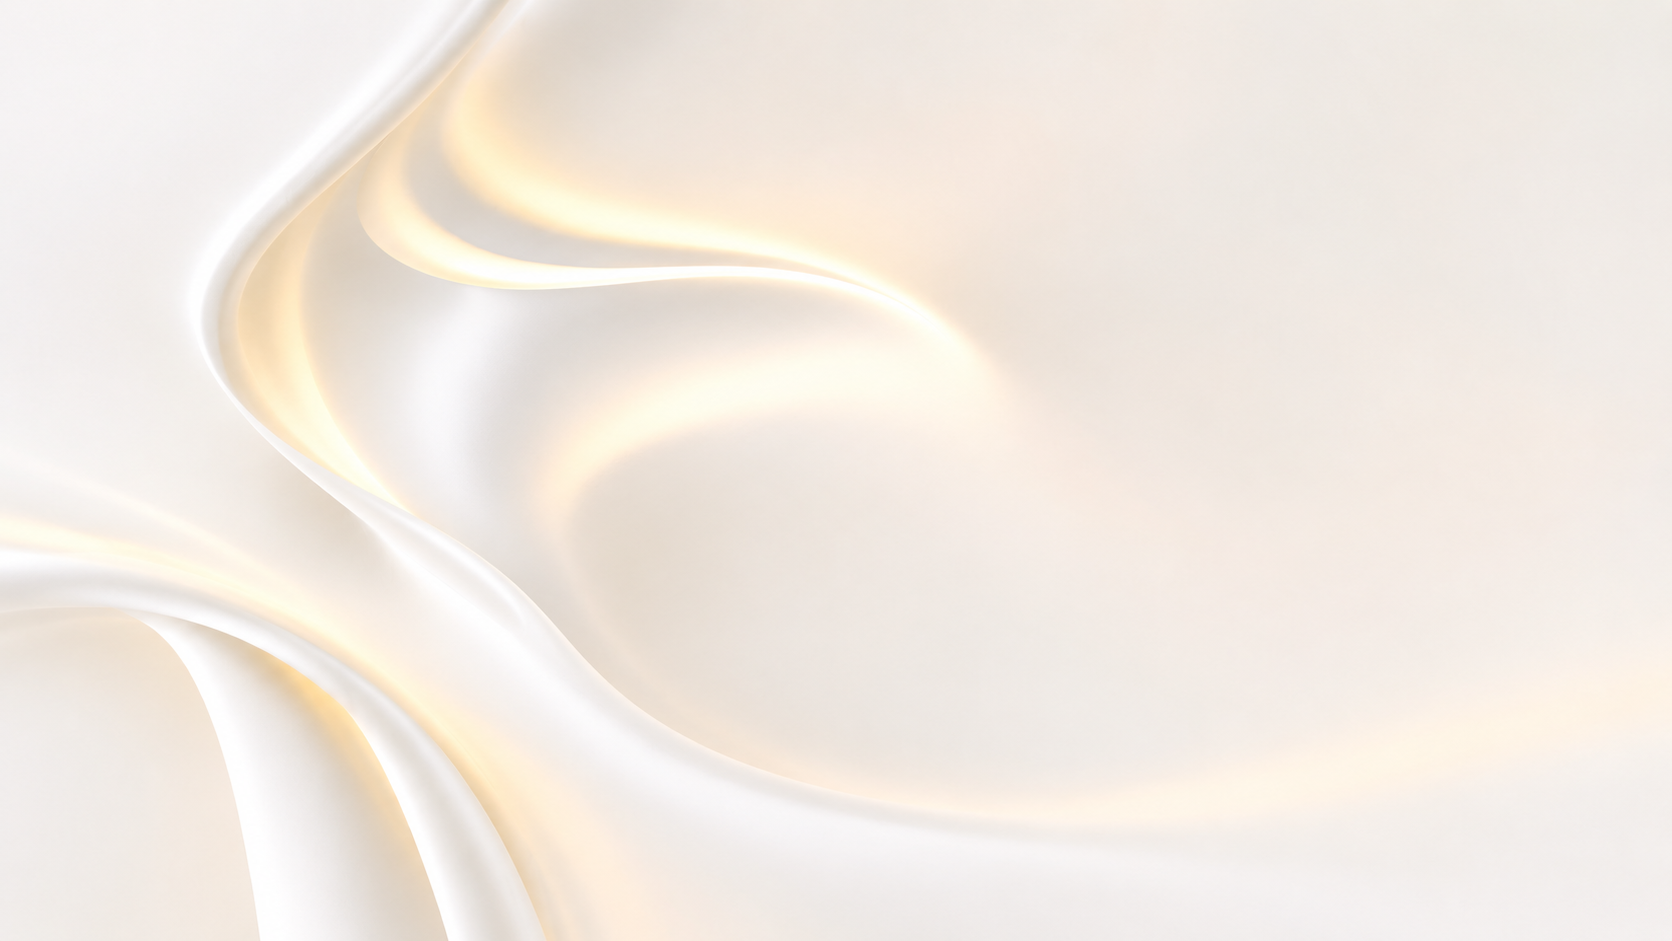
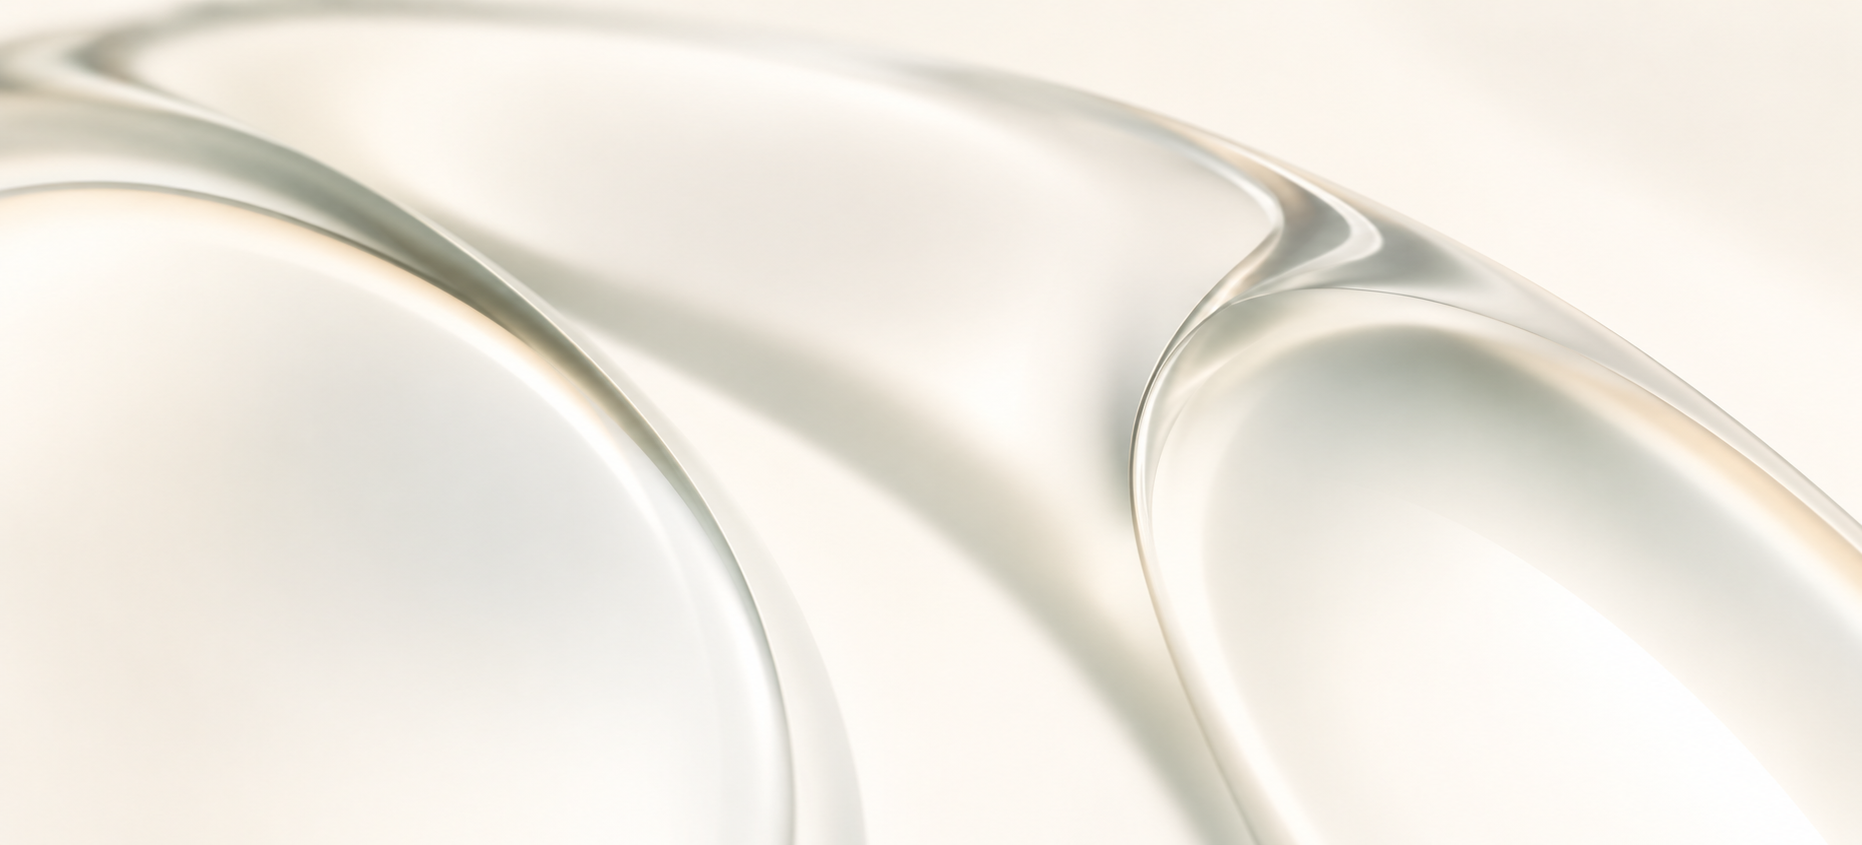
style changed

diff --git a/lib/data/site.ts b/lib/data/site.ts
@@ -240,7 +240,7 @@ export const aboutTexture = "/work/contact-bg.png";
 
 export const proofTexture = "/work/contact-section-bg.png";
 
-export const ideaTexture = "/media/idea-bg.jpeg";
+export const ideaTexture = "/media/idea-bg.png";
 
 export const movementMedia = [
   "/media/heritage-1.jpeg",
